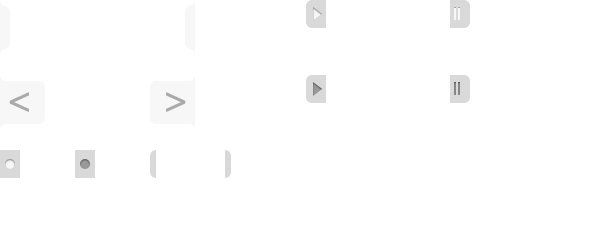
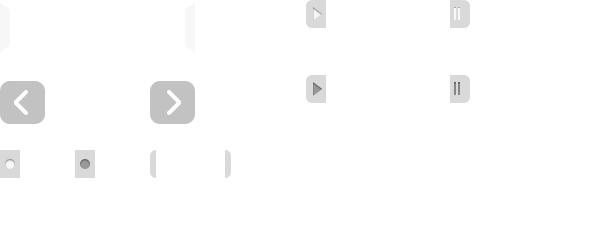
Modified NavBar a little
Moved the language button inside the nav bar
Changed the slider skin

Changed region(s): [[0.24, 0.3422, 0.33, 0.56], [0.0, 0.3422, 0.09, 0.56]]

diff --git a/css/styles.less b/css/styles.less
@@ -77,28 +77,29 @@ header {
 
 #language {
 	background: url(../img/transparent.png) repeat;
-	height: 40px;
+	height: 30px;
 	border-radius: 10px;
-	min-width:165px;
-	max-width: 405px;
-	margin-top:10px;
 	cursor:pointer;
+	min-width: 180px;
+	padding-top:3px;
+	margin-top:3px;
 }
 #language div {
 	float:left;
 }
 #language p {
 	float:left;
-	width: 60px;
+
 	line-height: 14px;
 	padding-top: 6px;
-	padding-left: 12px;
+	padding-left: 5px;
+	color: #CCC;
 }
 
 .flag {
-	background: url(../img/flagUK.jpg) center center no-repeat;
-	width: 60px;
-	height: 30px;
+	background: url(../img/flagUK.png) center center no-repeat;
+	width: 20px;
+	height: 14px;
 	margin-left: 7px;
 	margin-top:6px;
 }
@@ -117,13 +118,30 @@ header {
 .nav-collapse .nav>li:last-child>a, .nav-collapse .dropdown-menu a {
 	border-bottom:none;
 }
-.navbar-inner li:hover {
-	background: -webkit-gradient(linear, left top, left bottom, from(#093), to(#060));
-	background: -moz-linear-gradient(top,  #093,  #060);
-	filter: progid:DXImageTransform.Microsoft.gradient(startColorstr='#009933', endColorstr='#006600');
-
+.brand {
+	margin-left: 20px !important;
+	border-right: 1px solid #333;
+	color:  #444 !important;
+	text-shadow: none;
 }
 
 /* END NAVBAR */
 
 
+#slider {
+	.center;
+	margin-top:10px;
+}
+
+@media (min-width: 768px) and (max-width: 979px) {
+#slider {
+	height:300px !important;
+}
+	
+}
+@media (max-width: 767px) {
+	#slider {
+	height:150px !important;
+	width:100% !important;
+}
+}

diff --git a/css/skins/defaultskin/skin.css b/css/skins/defaultskin/skin.css
@@ -5,12 +5,7 @@
 .ls-defaultskin {
 	padding: 5px;
 	background: #f7f7f7;
-	box-shadow: 0px 3px 15px -5px #000;
-	-moz-box-shadow: 0px 3px 15px -5px #000;
-	-webkit-box-shadow: 0px 3px 15px -5px #000;
-	border-radius: 6px;
-	-moz-border-radius: 6px;
-	-webkit-border-radius: 6px;
+
 }
 
 .ls-defaultskin .ls-bottom-nav-wrapper {
@@ -46,19 +41,21 @@
 }
 
 .ls-defaultskin .ls-nav-prev {
-	background-position: 0px 0px;
+	background-position: 0px -75px;
+	opacity:0.5;
 }
 
 .ls-defaultskin .ls-nav-prev:hover {
-	background-position: 0px -75px;
+	opacity: 1;
 }
 
 .ls-defaultskin .ls-nav-next {
-	background-position: -150px 0px;
+	background-position: -150px -75px;
+	opacity: 0.5;
 }
 
 .ls-defaultskin .ls-nav-next:hover {
-	background-position: -150px -75px;
+	opacity:1;
 }
 
 .ls-defaultskin .ls-nav-start {
@@ -106,11 +103,11 @@
 }
 
 .ls-defaultskin .ls-nav-prev {
-	left: 5px;	
+	left: 15px;	
 }
 
 .ls-defaultskin .ls-nav-next {
-	right: 5px;	
+	right: 15px;	
 }
 
 

diff --git a/header.html b/header.html
@@ -1,11 +1,6 @@
  <header class="row-fluid">
     <div class="span10 offset2">
       <div class="span4 offset3" id="logo"> <img src="img/logowebgreen.png" alt="Adline.Web Logo"> </div>
-      <div class="span2 offset1" id="language"> 
-      	<div class="flag"></div>
-		<p>Change Language</p>
-      
-      </div>
     </div>
   </header>
   <div class="row-fluid full-width-separator"></div>

diff --git a/index.php b/index.php
@@ -18,20 +18,31 @@
 		<div class="navbar-inner">
 				<div class="container">
 						<button type="button" class="btn btn-navbar collapsed" data-toggle="collapse" data-target=".nav-collapse"> <span class="icon-bar"></span> <span class="icon-bar"></span> <span class="icon-bar"></span> </button>
+						<a class="brand" href="index.php">Menu</a>
 						<div class="nav-collapse collapse" style="height: 0px;">
 								<ul class="nav">
 										<li class=""> <a href="#">Home</a> </li>
-										<li class=""> <a href="#">About</a> </li>
+										<li class="dropdown"> <a href="#" class="dropdown-toggle" data-toggle="dropdown">About<b class="caret"></b></a>
+										<ul class="dropdown-menu">
+      <li><a href="#">Company</a>
+	  <a href="#">Work</a>
+    </ul></li>
 										<li class=""> <a href="#">Contact</a> </li>
 								</ul>
+								      <div class="pull-right" id="language"> 
+      	<div class="flag"></div>
+		<p>Change Language</p>
+      
+      </div>
 						</div>
 				</div>
 		</div>
 </div>
 <?php include 'header.html' ?>
 
+
 <!--LayerSlider begin-->
-<div id="slider" style="width: 100%; height: 400px;">
+<div id="slider" style="width: 80%; height: 400px;">
  
     <!--LayerSlider layer-->
     <div class="ls-layer">
@@ -60,6 +71,7 @@
 </div>
 <!--LayerSlider end-->
 
+
 <!-- Scripts --> 
 
 <script src="//ajax.googleapis.com/ajax/libs/jquery/1.10.1/jquery.min.js"></script> 
@@ -77,9 +89,9 @@
     touchNav                : true,
     imgPreload              : true,
     navPrevNext             : true,
-    navStartStop            : true,
-    navButtons              : true,
-    skin                    : 'darkskin',
+    navStartStop            : false,
+    navButtons              : false,
+    skin                    : 'defaultskin',
     skinsPath               : 'css/skins/',
     pauseOnHover            : true,
     globalBGColor           : 'transparent',
